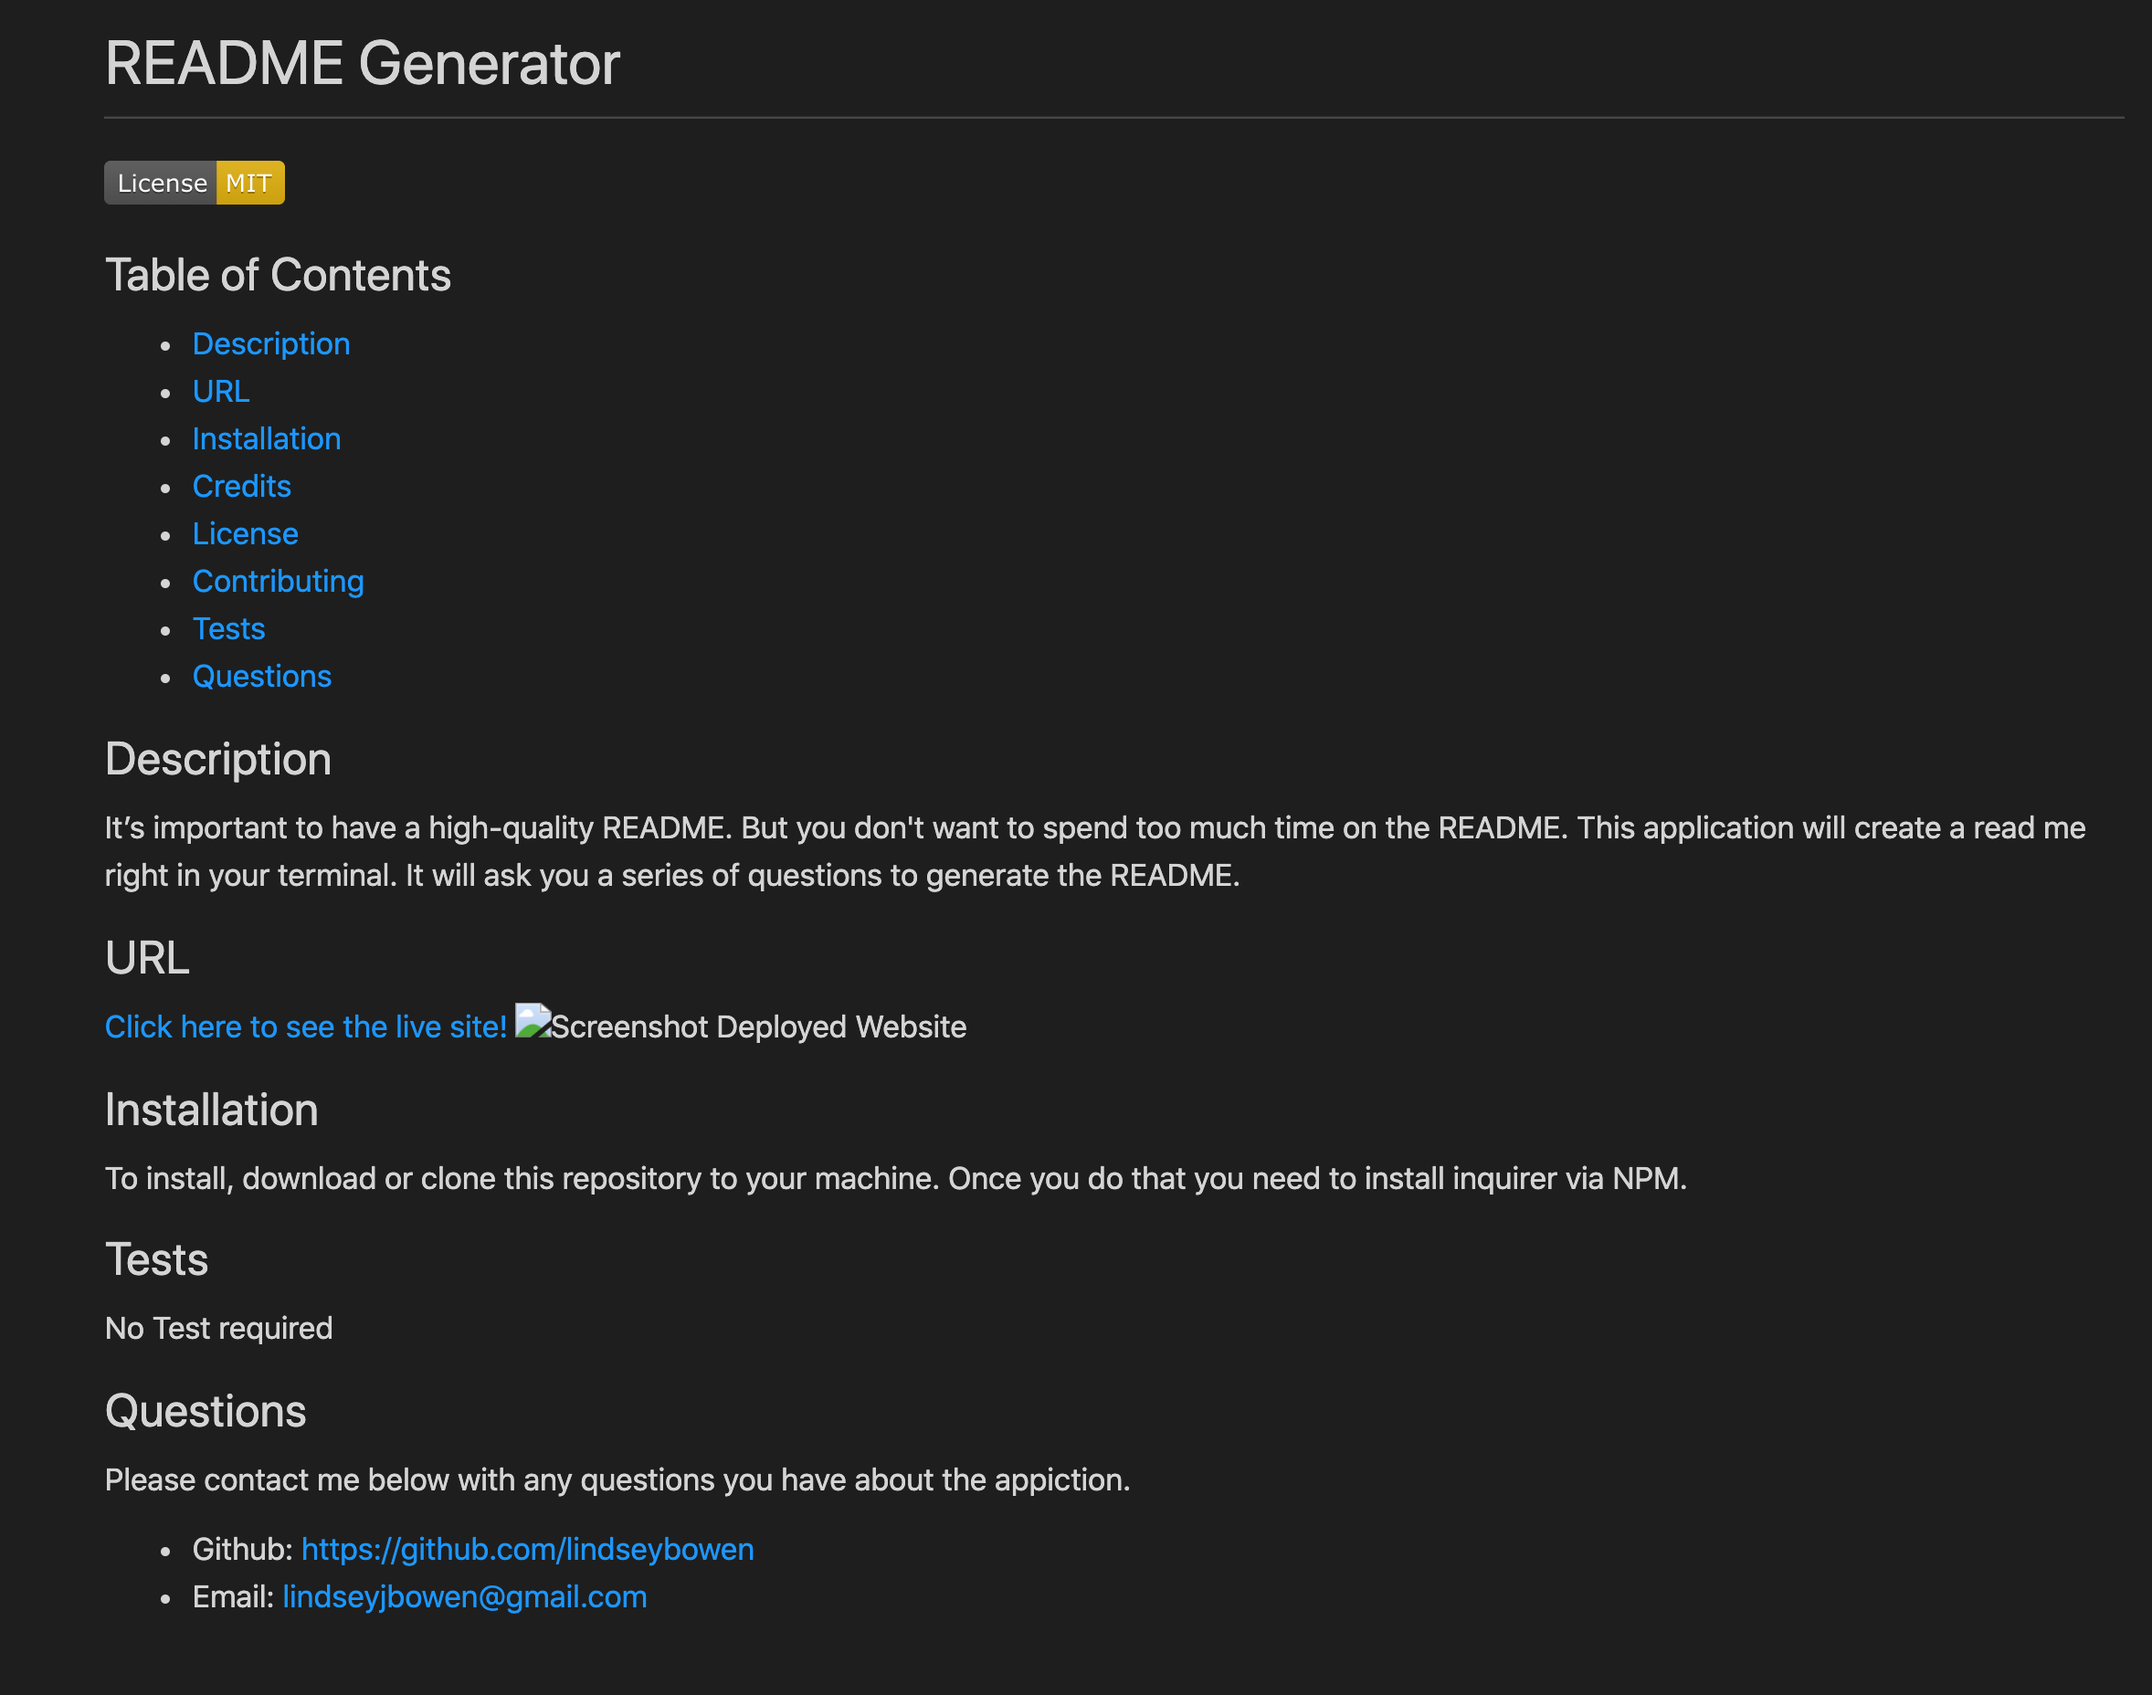
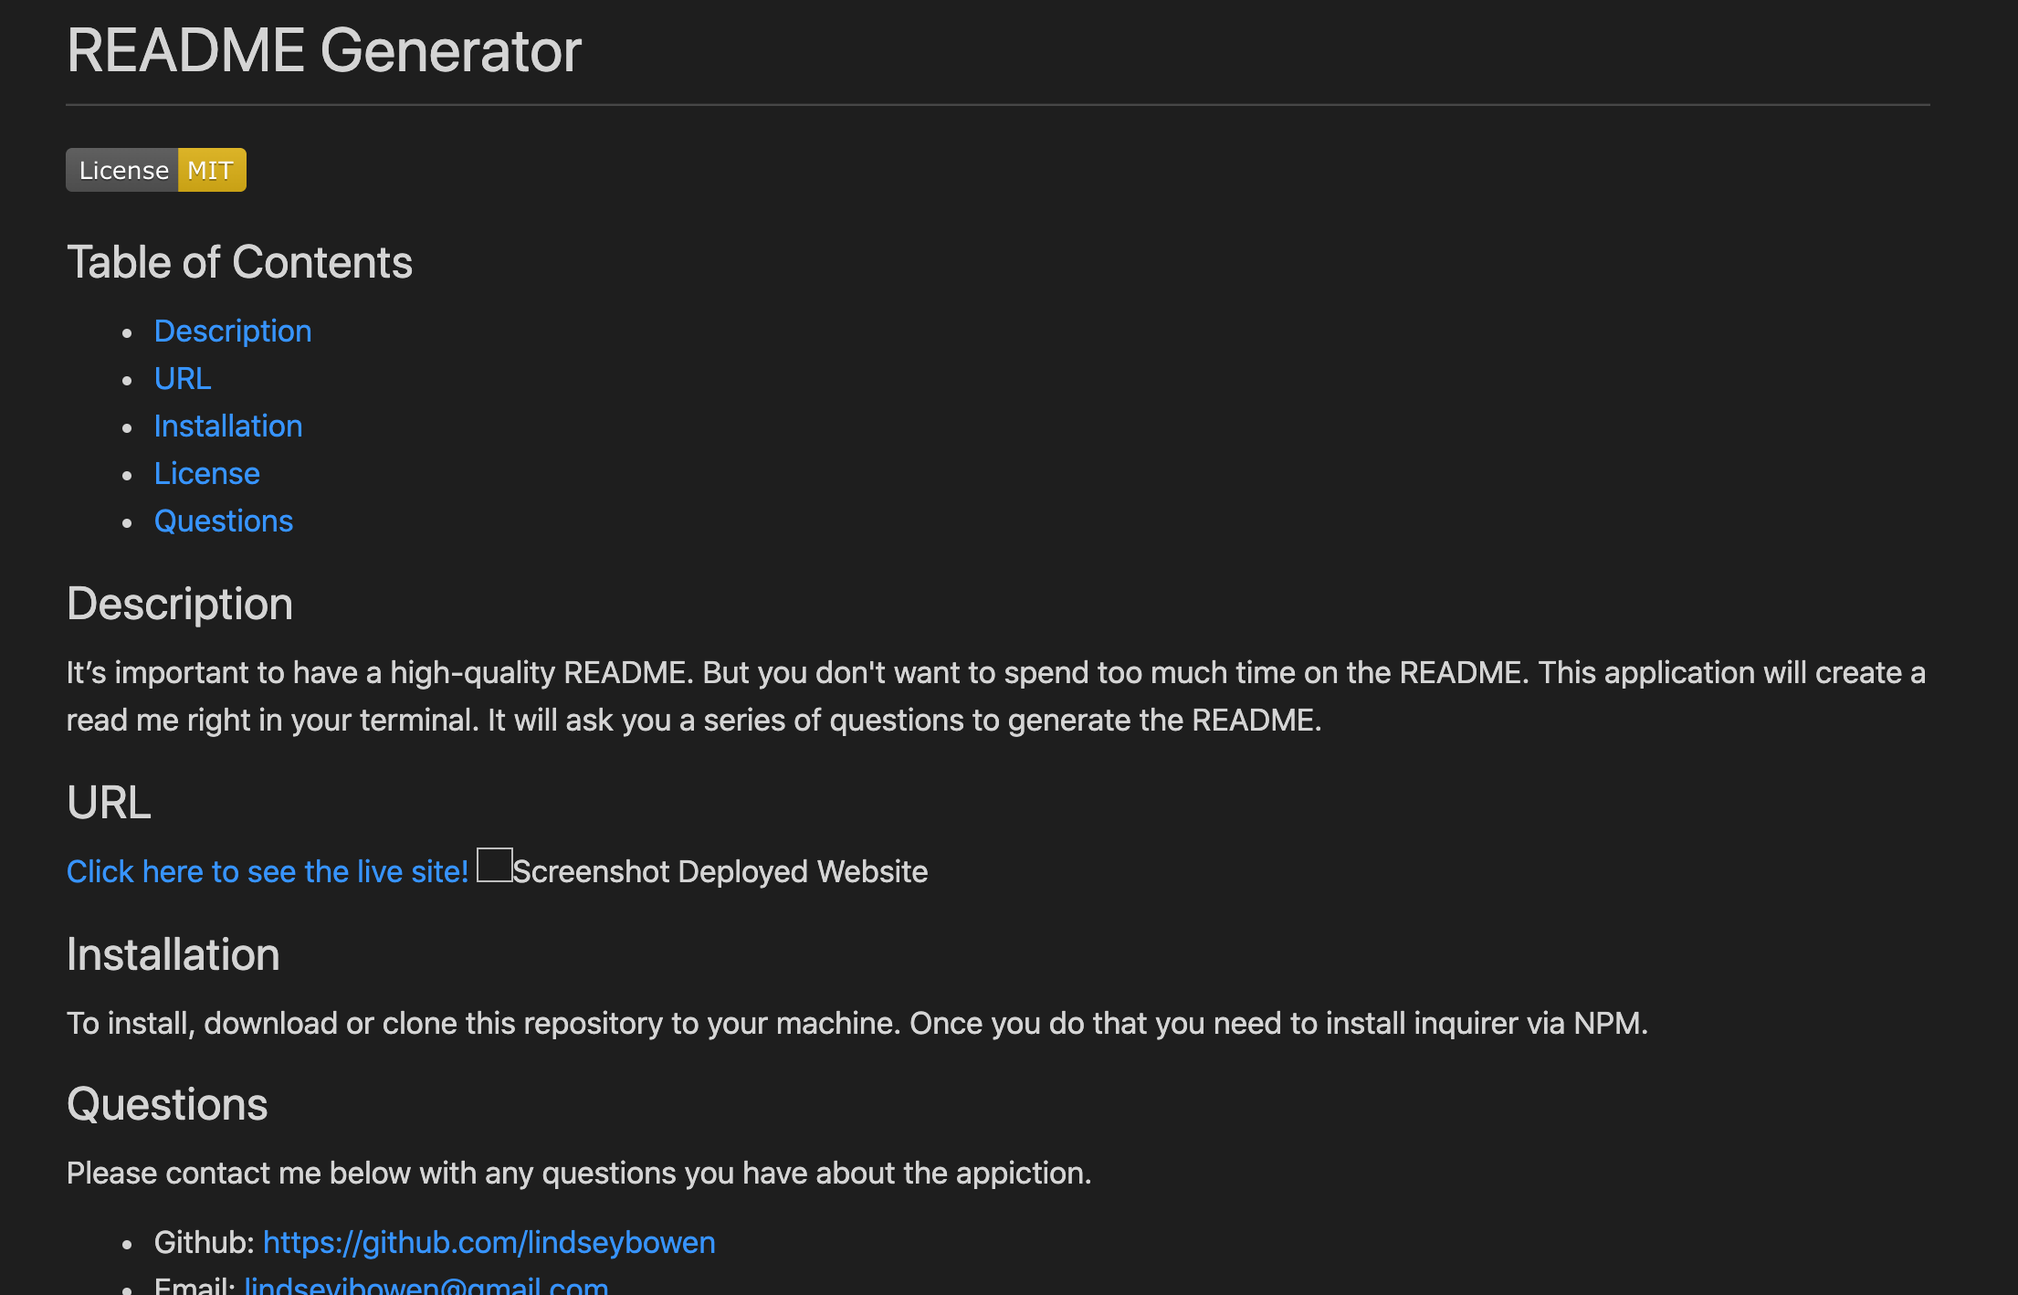
chnaged read me contents

Changed region(s): [[0.0312, 0.0931, 0.9679, 1.0], [0.0312, 0.0, 0.281, 0.0621]]

diff --git a/README.md b/README.md
@@ -5,10 +5,7 @@
 * [Description](#description)
 * [URL](#url)
 * [Installation](#installation)
-* [Credits](#credits)
 * [License](#license)
-* [Contributing](#contributing)
-* [Tests](#tests)
 * [Questions](#questions)
 ## Description 
 It’s important to have a high-quality README. But you don't want to spend too much time on the README. This application will create a read me right in your terminal. It will ask you a series of questions to generate the README. 
